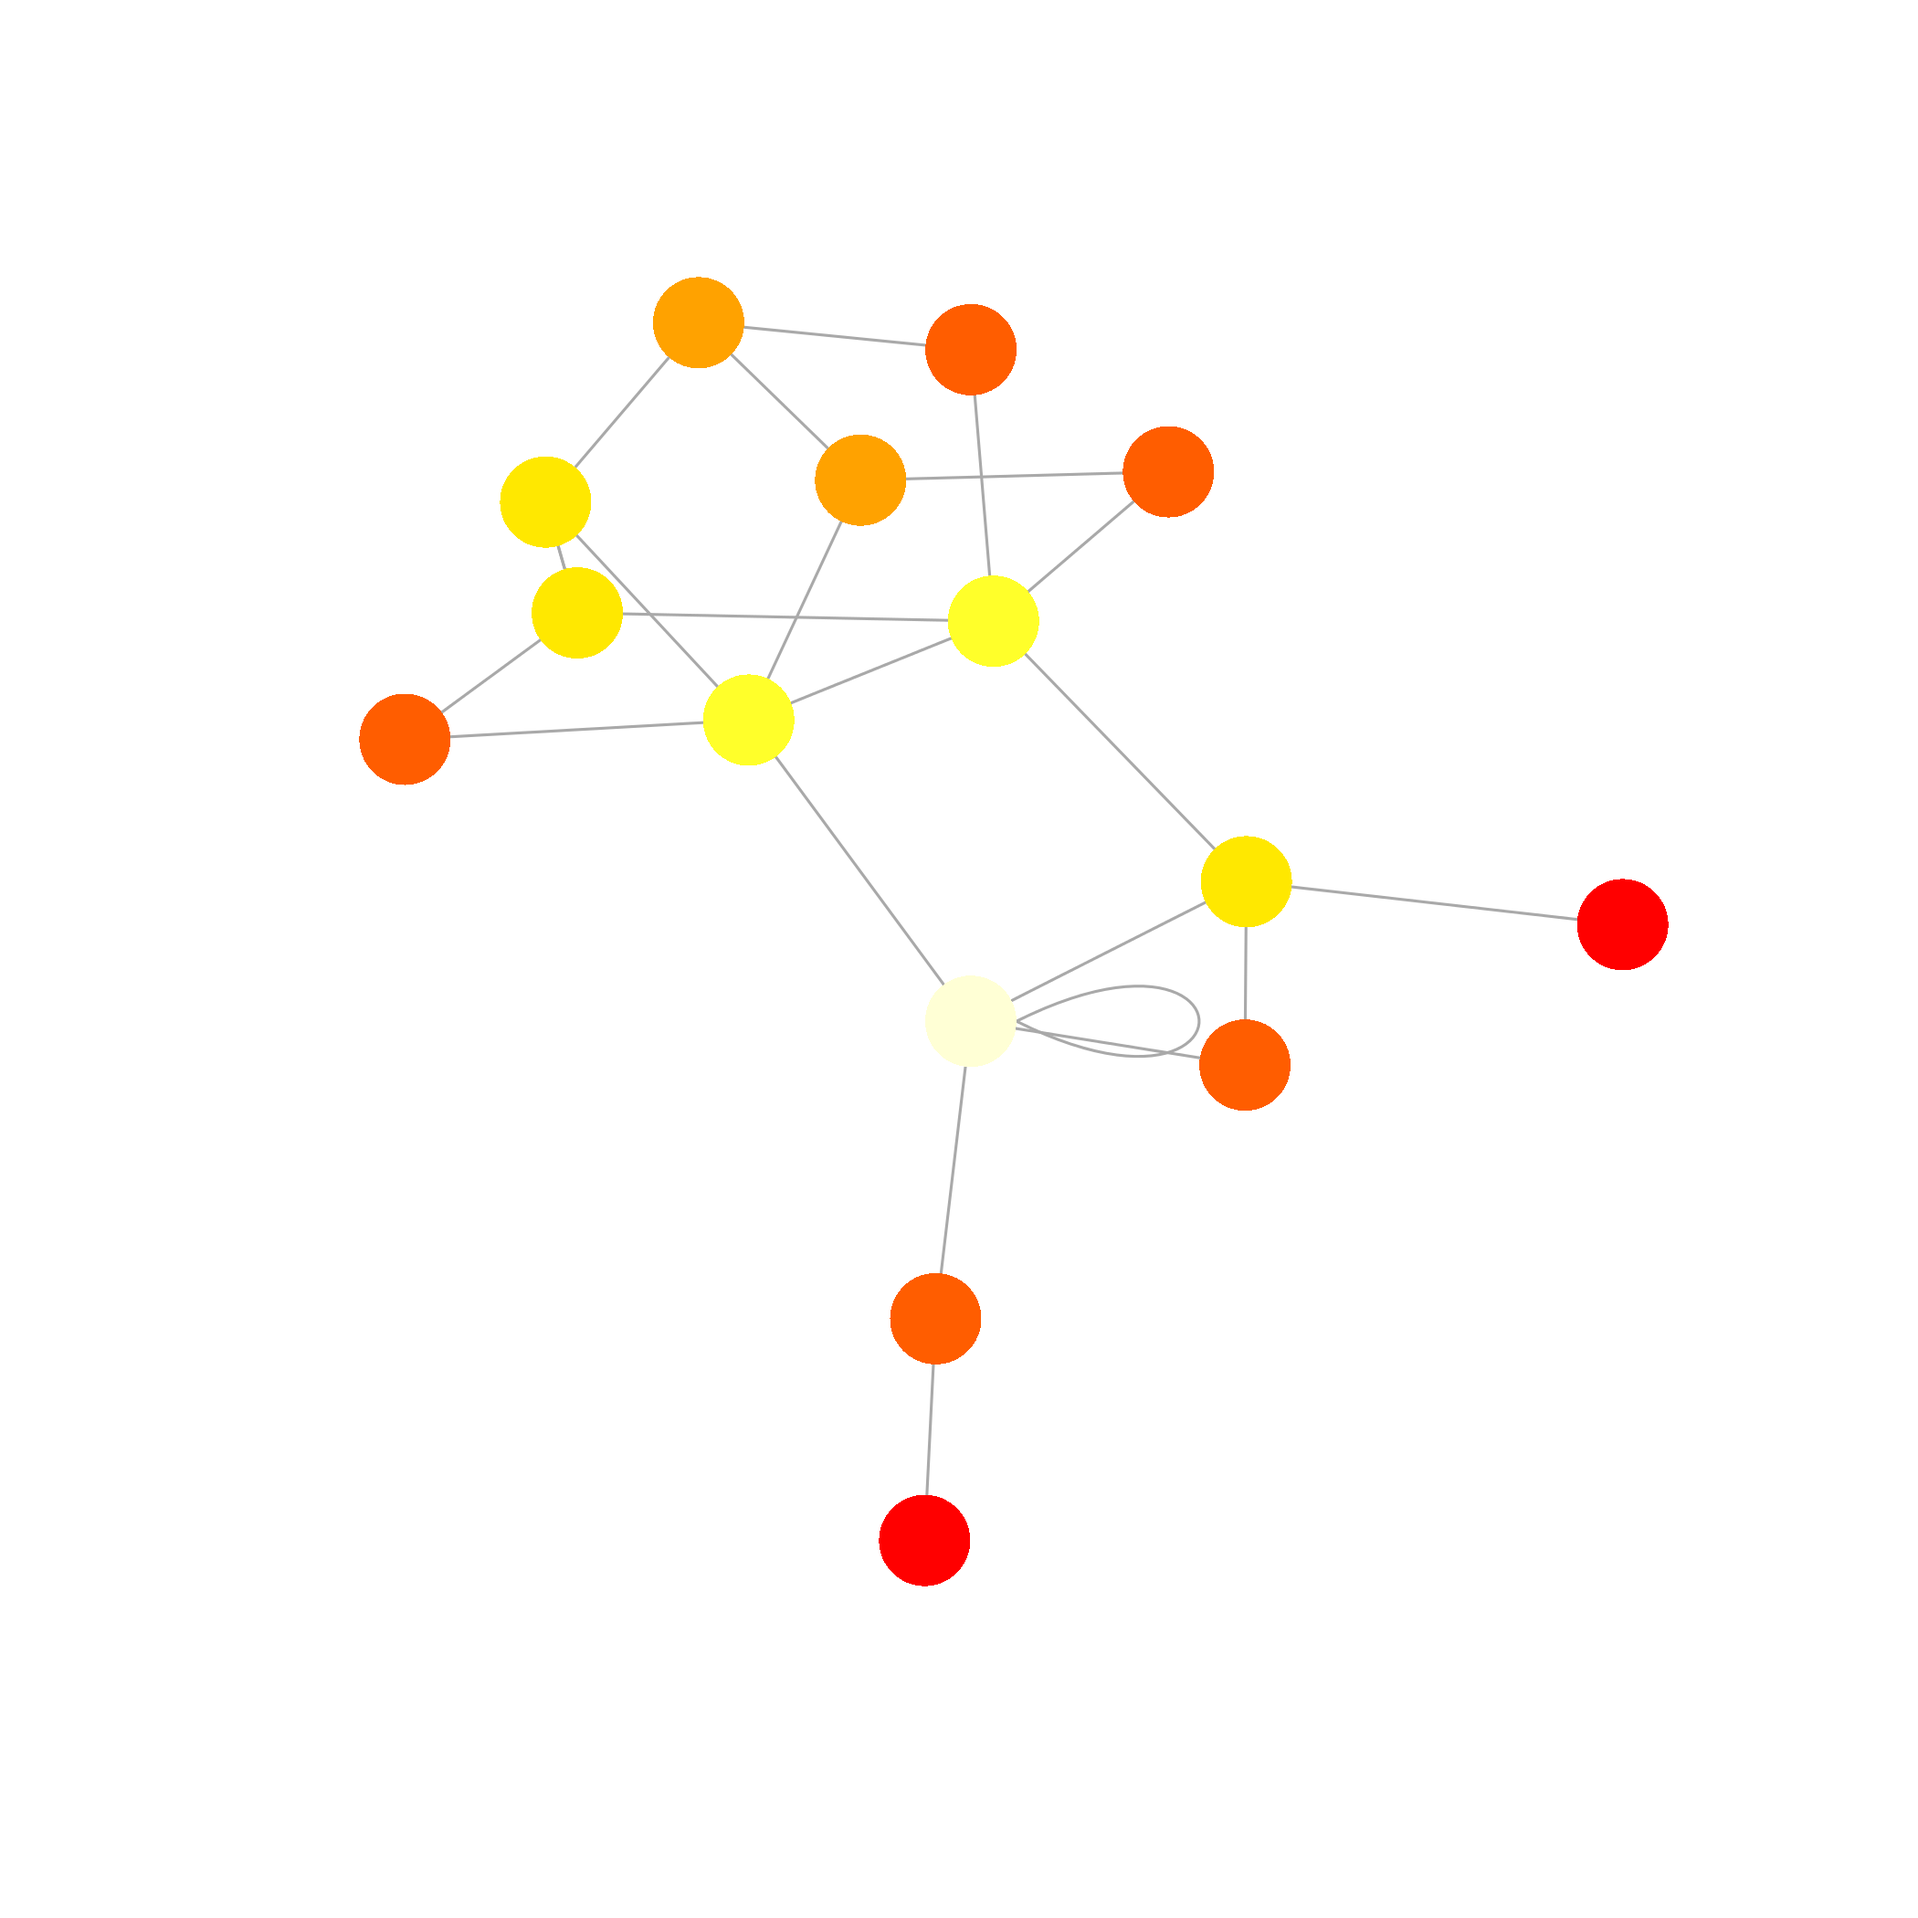
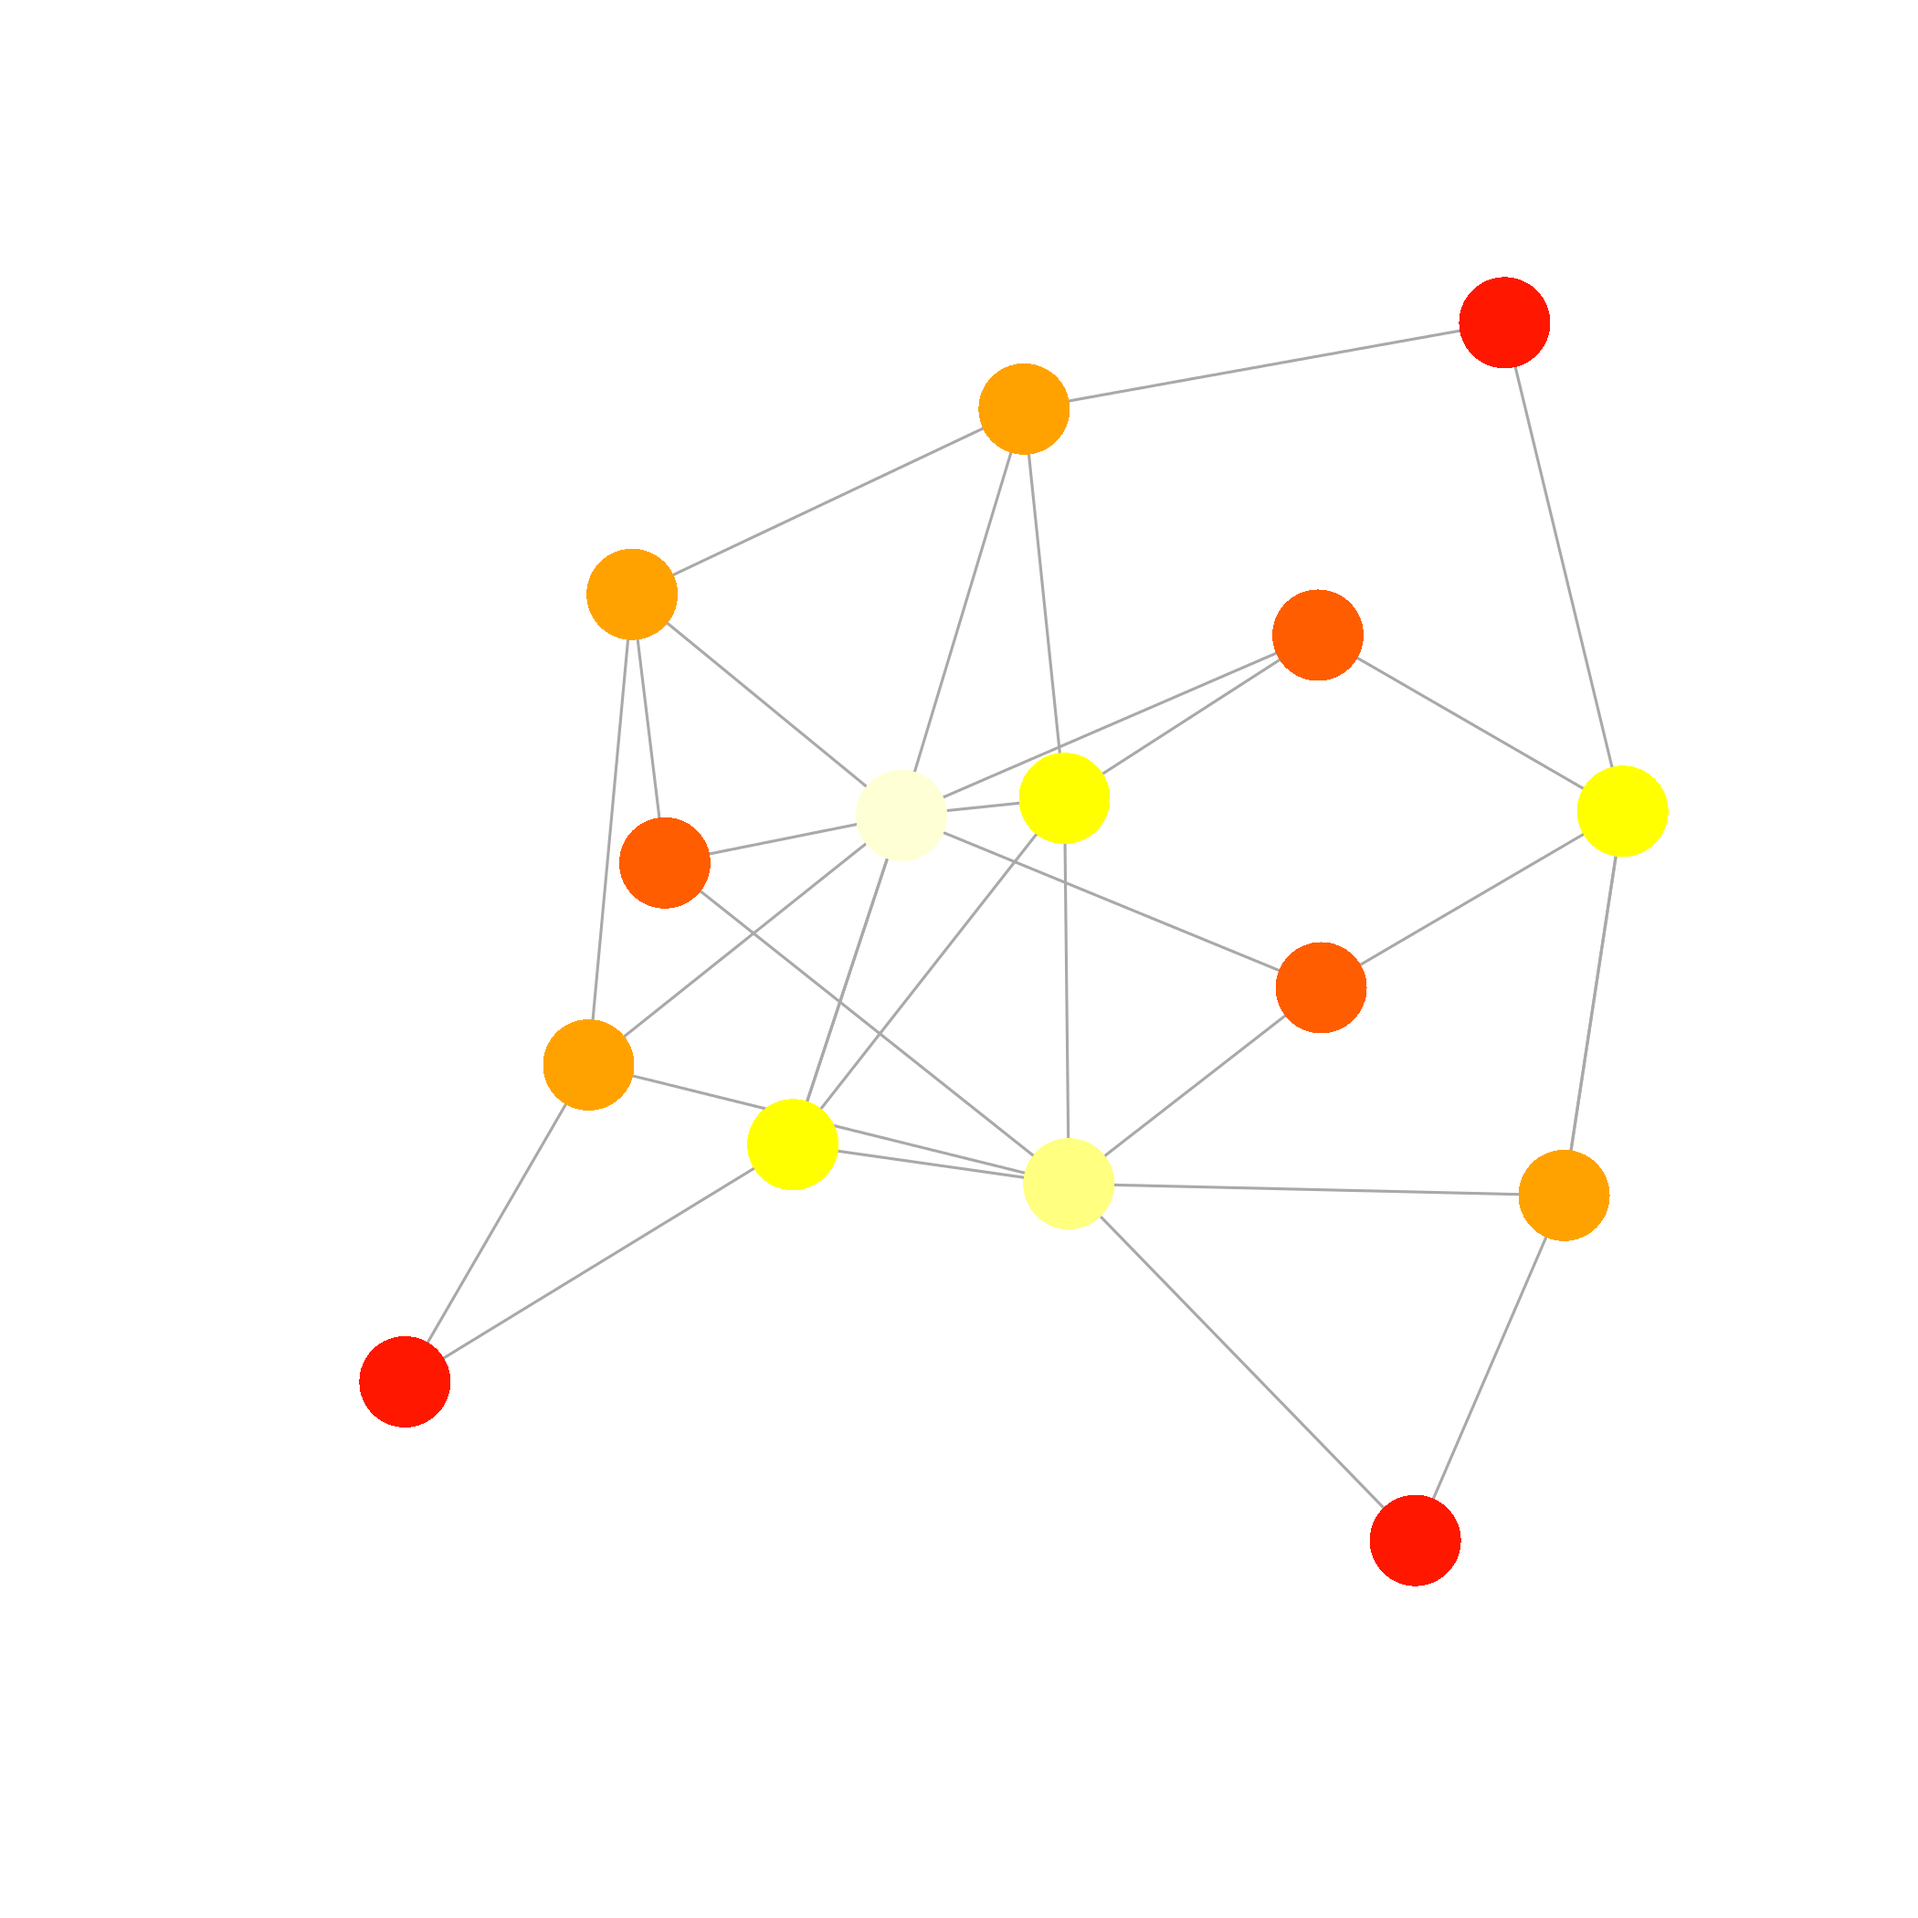
Update the slides

diff --git a/cours5/index.html b/cours5/index.html
@@ -946,7 +946,7 @@ L[runif(S*S) &lt; C] = 1
 sum(L)
 </code></pre>
 
-<pre><code>## [1] 23
+<pre><code>## [1] 31
 </code></pre>
 
 <pre><code class="r">g &lt;- graph.adjacency(L)
@@ -1122,7 +1122,7 @@ plot(g, vertex.label=NA, edge.arrow.mode = 0,
 modularity(wtc)
 </code></pre>
 
-<pre><code>## [1] 0.3544424
+<pre><code>## [1] 0.2289282
 </code></pre>
 
   </article>
@@ -1140,37 +1140,37 @@ modularity(wtc)
 </code></pre>
 
 <pre><code>##       [,1] [,2] [,3] [,4] [,5] [,6] [,7] [,8] [,9] [,10] [,11] [,12] [,13]
-##  [1,]    0    5    1    1    3    4    3    3    3     2     2     2     2
-##  [2,]    5    0    4    4    3    1    4    2    4     3     5     3     5
-##  [3,]    1    4    0    2    3    3    4    2    2     3     3     1     3
-##  [4,]    1    4    2    0    2    3    2    2    2     1     2     1     1
-##  [5,]    3    3    3    2    0    2    2    1    3     1     4     2     3
-##  [6,]    4    1    3    3    2    0    3    1    3     2     4     2     4
-##  [7,]    3    4    4    2    2    3    0    2    4     1     4     3     3
-##  [8,]    3    2    2    2    1    1    2    0    2     1     3     1     3
-##  [9,]    3    4    2    2    3    3    4    2    0     3     1     1     1
-## [10,]    2    3    3    1    1    2    1    1    3     0     3     2     2
-## [11,]    2    5    3    2    4    4    4    3    1     3     0     2     2
-## [12,]    2    3    1    1    2    2    3    1    1     2     2     0     2
-## [13,]    2    5    3    1    3    4    3    3    1     2     2     2     0
-## [14,]    1    4    2    2    3    3    4    2    2     3     1     1     3
-## [15,]    2    5    3    1    3    4    3    3    2     2     1     2     2
+##  [1,]    0    3    2    3    2    1    3    3    2     3     3     1     2
+##  [2,]    3    0    2    2    3    2    2    4    2     2     1     3     3
+##  [3,]    2    2    0    1    1    2    2    2    2     1     1     1     2
+##  [4,]    3    2    1    0    1    3    1    2    1     1     1     2     1
+##  [5,]    2    3    1    1    0    2    2    1    2     2     2     1     2
+##  [6,]    1    2    2    3    2    0    3    3    2     2     3     1     2
+##  [7,]    3    2    2    1    2    3    0    2    2     2     1     2     1
+##  [8,]    3    4    2    2    1    3    2    0    3     3     3     2     3
+##  [9,]    2    2    2    1    2    2    2    3    0     2     2     1     2
+## [10,]    3    2    1    1    2    2    2    3    2     0     2     2     2
+## [11,]    3    1    1    1    2    3    1    3    2     2     0     2     2
+## [12,]    1    3    1    2    1    1    2    2    1     2     2     0     1
+## [13,]    2    3    2    1    2    2    1    3    2     2     2     1     0
+## [14,]    2    1    2    2    3    1    3    4    1     1     2     2     3
+## [15,]    2    3    2    1    2    2    1    1    2     2     2     1     2
 ##       [,14] [,15]
-##  [1,]     1     2
-##  [2,]     4     5
-##  [3,]     2     3
+##  [1,]     2     2
+##  [2,]     1     3
+##  [3,]     2     2
 ##  [4,]     2     1
-##  [5,]     3     3
-##  [6,]     3     4
-##  [7,]     4     3
-##  [8,]     2     3
-##  [9,]     2     2
-## [10,]     3     2
-## [11,]     1     1
-## [12,]     1     2
+##  [5,]     3     2
+##  [6,]     1     2
+##  [7,]     3     1
+##  [8,]     4     1
+##  [9,]     1     2
+## [10,]     1     2
+## [11,]     2     2
+## [12,]     2     1
 ## [13,]     3     2
-## [14,]     0     2
-## [15,]     2     0
+## [14,]     0     3
+## [15,]     3     0
 </code></pre>
 
   </article>
@@ -1187,9 +1187,9 @@ modularity(wtc)
 <pre><code class="r">eigen_centrality(g)$vector
 </code></pre>
 
-<pre><code>##  [1] 0.86225364 0.07030676 0.50907132 0.89230305 0.41376036 0.25719190
-##  [7] 0.17578773 0.87053696 0.50979302 0.64305597 0.48161248 1.00000000
-## [13] 0.38328125 0.87643465 0.37557773
+<pre><code>##  [1] 0.2018334 0.1657273 0.6753393 1.0000000 0.7370619 0.3142900 0.4950886
+##  [8] 0.2523953 0.4100093 0.4108500 0.4784401 0.6712342 0.4436587 0.3307830
+## [15] 0.4953488
 </code></pre>
 
   </article>

diff --git a/cours5/index.md b/cours5/index.md
@@ -668,7 +668,7 @@ sum(L)
 ```
 
 ```
-## [1] 23
+## [1] 31
 ```
 
 ```r
@@ -810,7 +810,7 @@ modularity(wtc)
 ```
 
 ```
-## [1] 0.3544424
+## [1] 0.2289282
 ```
 
 ---
@@ -826,37 +826,37 @@ distances(g)
 
 ```
 ##       [,1] [,2] [,3] [,4] [,5] [,6] [,7] [,8] [,9] [,10] [,11] [,12] [,13]
-##  [1,]    0    5    1    1    3    4    3    3    3     2     2     2     2
-##  [2,]    5    0    4    4    3    1    4    2    4     3     5     3     5
-##  [3,]    1    4    0    2    3    3    4    2    2     3     3     1     3
-##  [4,]    1    4    2    0    2    3    2    2    2     1     2     1     1
-##  [5,]    3    3    3    2    0    2    2    1    3     1     4     2     3
-##  [6,]    4    1    3    3    2    0    3    1    3     2     4     2     4
-##  [7,]    3    4    4    2    2    3    0    2    4     1     4     3     3
-##  [8,]    3    2    2    2    1    1    2    0    2     1     3     1     3
-##  [9,]    3    4    2    2    3    3    4    2    0     3     1     1     1
-## [10,]    2    3    3    1    1    2    1    1    3     0     3     2     2
-## [11,]    2    5    3    2    4    4    4    3    1     3     0     2     2
-## [12,]    2    3    1    1    2    2    3    1    1     2     2     0     2
-## [13,]    2    5    3    1    3    4    3    3    1     2     2     2     0
-## [14,]    1    4    2    2    3    3    4    2    2     3     1     1     3
-## [15,]    2    5    3    1    3    4    3    3    2     2     1     2     2
+##  [1,]    0    3    2    3    2    1    3    3    2     3     3     1     2
+##  [2,]    3    0    2    2    3    2    2    4    2     2     1     3     3
+##  [3,]    2    2    0    1    1    2    2    2    2     1     1     1     2
+##  [4,]    3    2    1    0    1    3    1    2    1     1     1     2     1
+##  [5,]    2    3    1    1    0    2    2    1    2     2     2     1     2
+##  [6,]    1    2    2    3    2    0    3    3    2     2     3     1     2
+##  [7,]    3    2    2    1    2    3    0    2    2     2     1     2     1
+##  [8,]    3    4    2    2    1    3    2    0    3     3     3     2     3
+##  [9,]    2    2    2    1    2    2    2    3    0     2     2     1     2
+## [10,]    3    2    1    1    2    2    2    3    2     0     2     2     2
+## [11,]    3    1    1    1    2    3    1    3    2     2     0     2     2
+## [12,]    1    3    1    2    1    1    2    2    1     2     2     0     1
+## [13,]    2    3    2    1    2    2    1    3    2     2     2     1     0
+## [14,]    2    1    2    2    3    1    3    4    1     1     2     2     3
+## [15,]    2    3    2    1    2    2    1    1    2     2     2     1     2
 ##       [,14] [,15]
-##  [1,]     1     2
-##  [2,]     4     5
-##  [3,]     2     3
+##  [1,]     2     2
+##  [2,]     1     3
+##  [3,]     2     2
 ##  [4,]     2     1
-##  [5,]     3     3
-##  [6,]     3     4
-##  [7,]     4     3
-##  [8,]     2     3
-##  [9,]     2     2
-## [10,]     3     2
-## [11,]     1     1
-## [12,]     1     2
+##  [5,]     3     2
+##  [6,]     1     2
+##  [7,]     3     1
+##  [8,]     4     1
+##  [9,]     1     2
+## [10,]     1     2
+## [11,]     2     2
+## [12,]     2     1
 ## [13,]     3     2
-## [14,]     0     2
-## [15,]     2     0
+## [14,]     0     3
+## [15,]     3     0
 ```
 
 ---
@@ -871,9 +871,9 @@ eigen_centrality(g)$vector
 ```
 
 ```
-##  [1] 0.86225364 0.07030676 0.50907132 0.89230305 0.41376036 0.25719190
-##  [7] 0.17578773 0.87053696 0.50979302 0.64305597 0.48161248 1.00000000
-## [13] 0.38328125 0.87643465 0.37557773
+##  [1] 0.2018334 0.1657273 0.6753393 1.0000000 0.7370619 0.3142900 0.4950886
+##  [8] 0.2523953 0.4100093 0.4108500 0.4784401 0.6712342 0.4436587 0.3307830
+## [15] 0.4953488
 ```
 
 --- .transition
